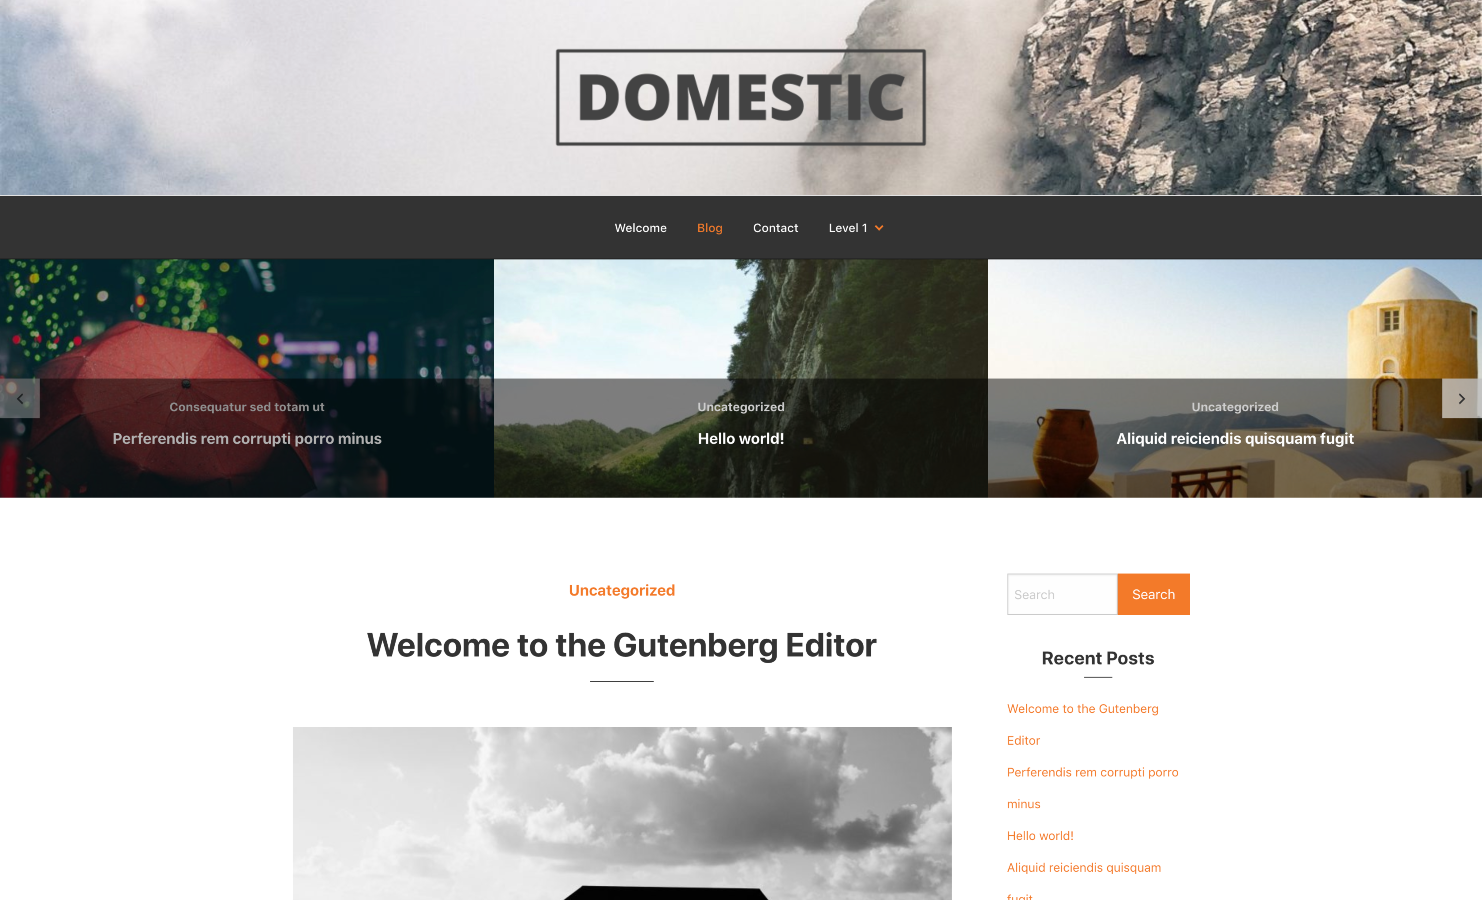
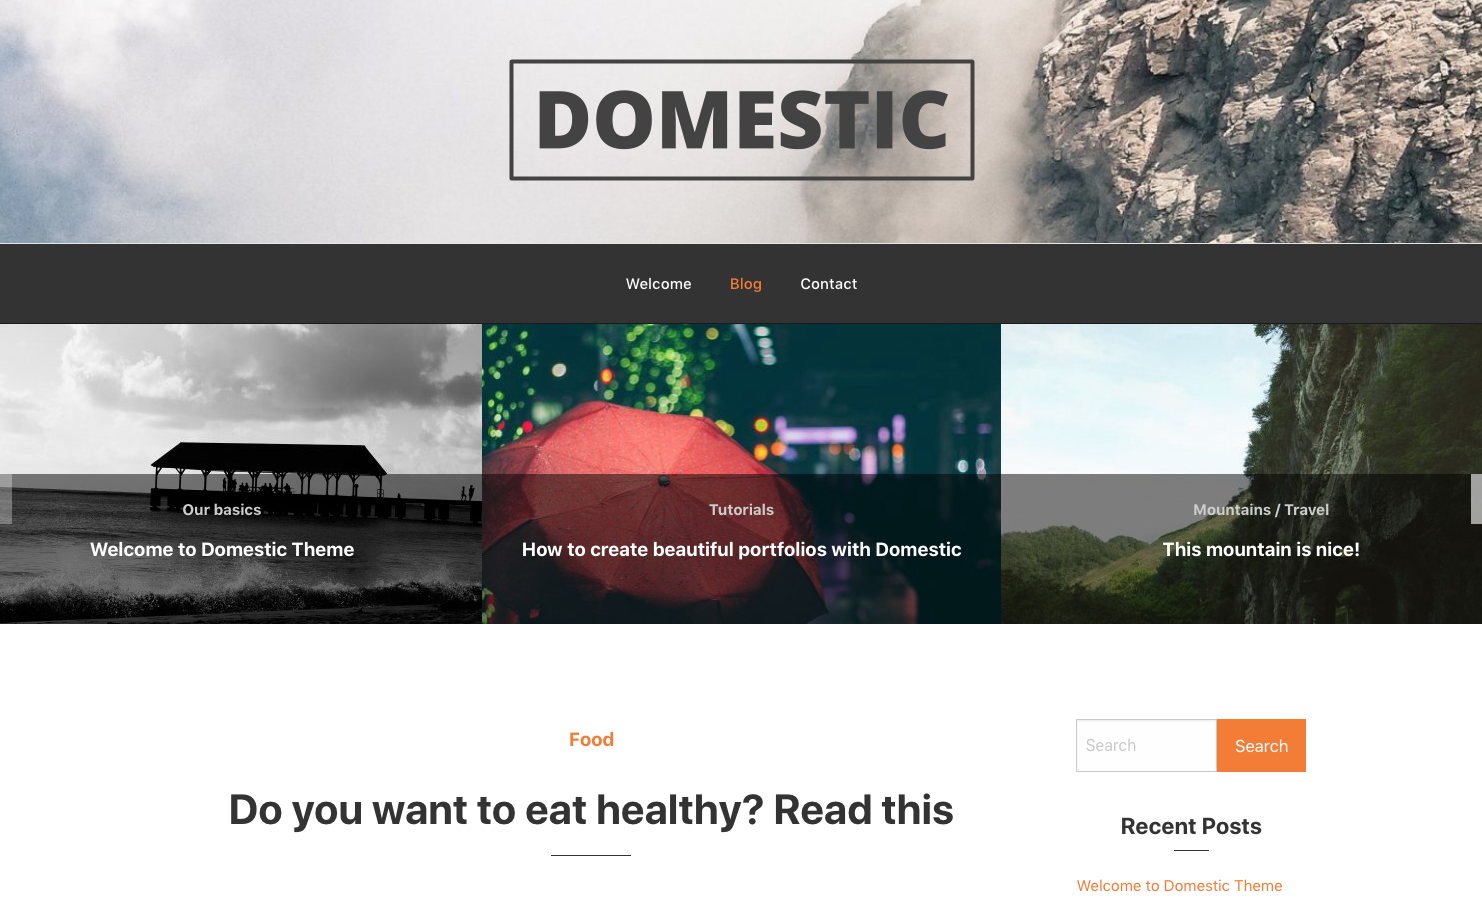
Styles improvements

diff --git a/src/assets/scss/modules/_sidebar.scss b/src/assets/scss/modules/_sidebar.scss
@@ -14,16 +14,16 @@
 		list-style: none;
 		margin-left: 0;
 		li {
-			line-height: 1.2 * $global-lineheight;
+			line-height: 0.9 * $global-lineheight;
 		}
 	}
 }
 
+.widget_recent_entries,
 .widget_archive,
 .widget_categories,
 .widget_nav_menu {
 	ul, ol {
-		text-align: right;
 		li {
 			width: 100%;
 			display:inline-block;
